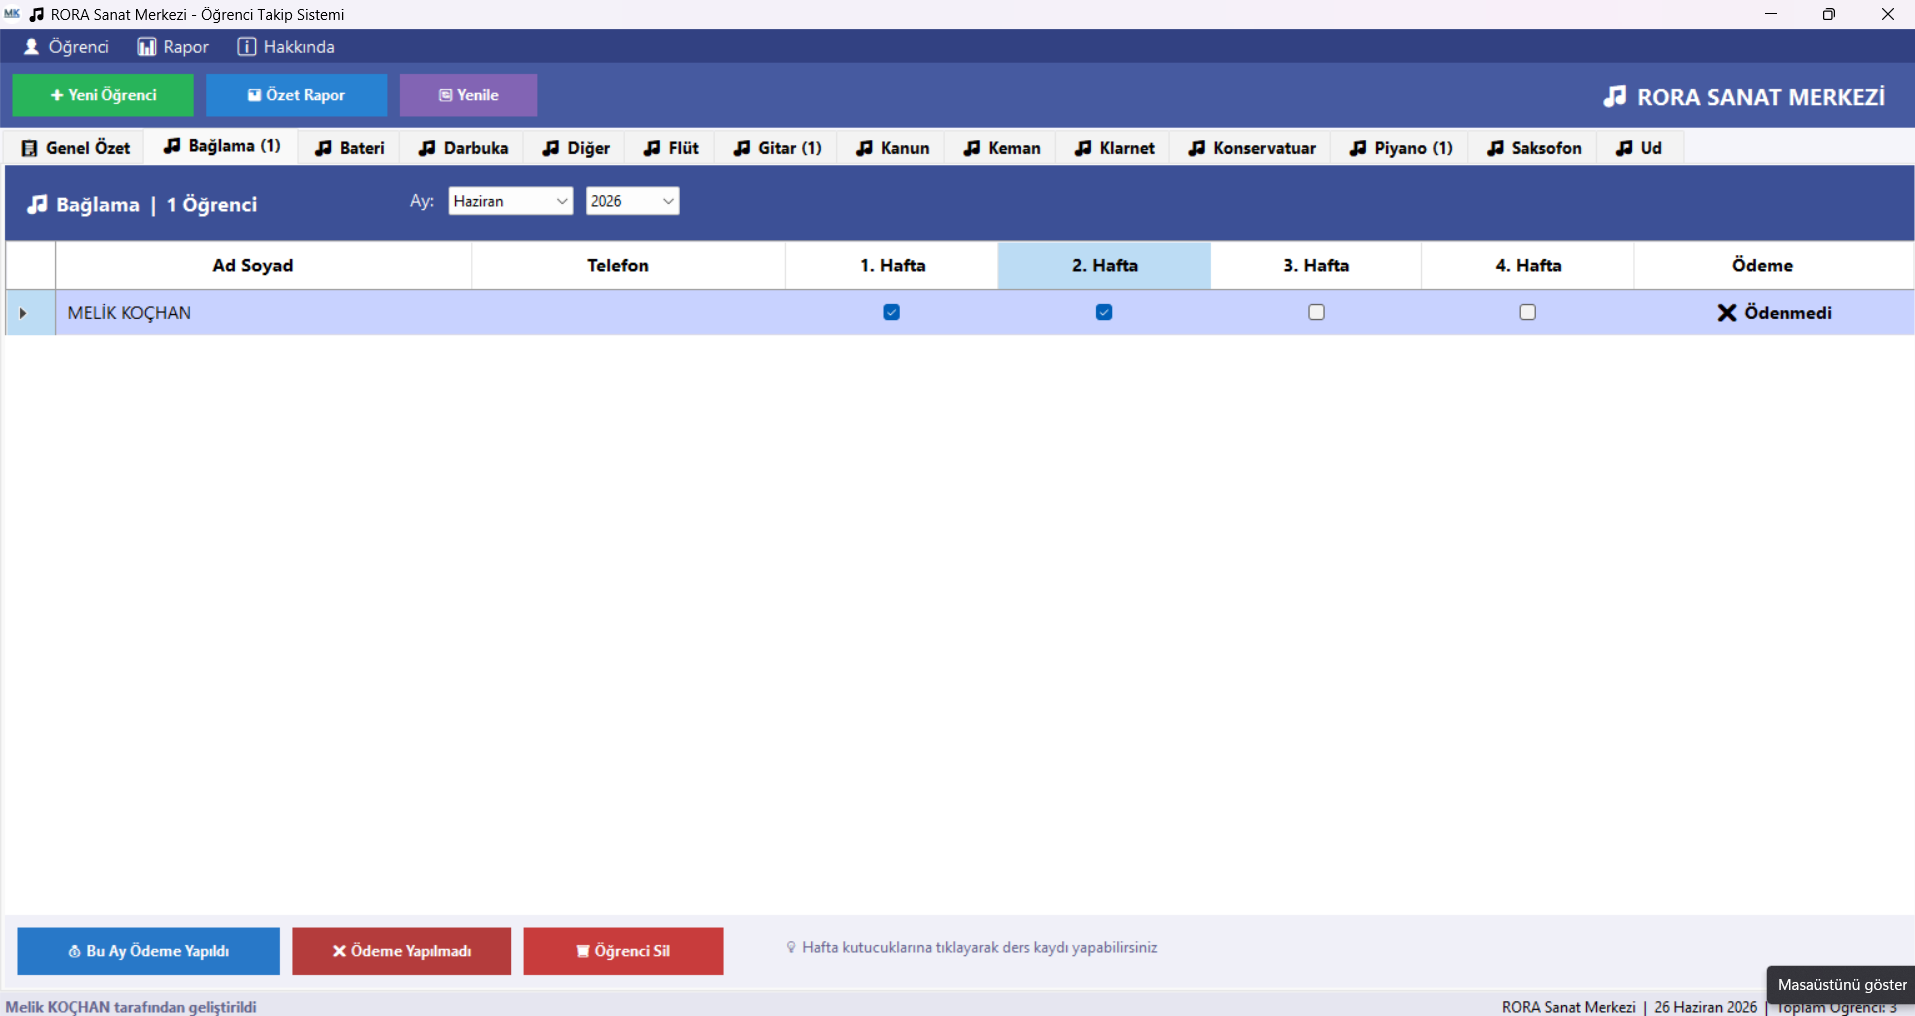
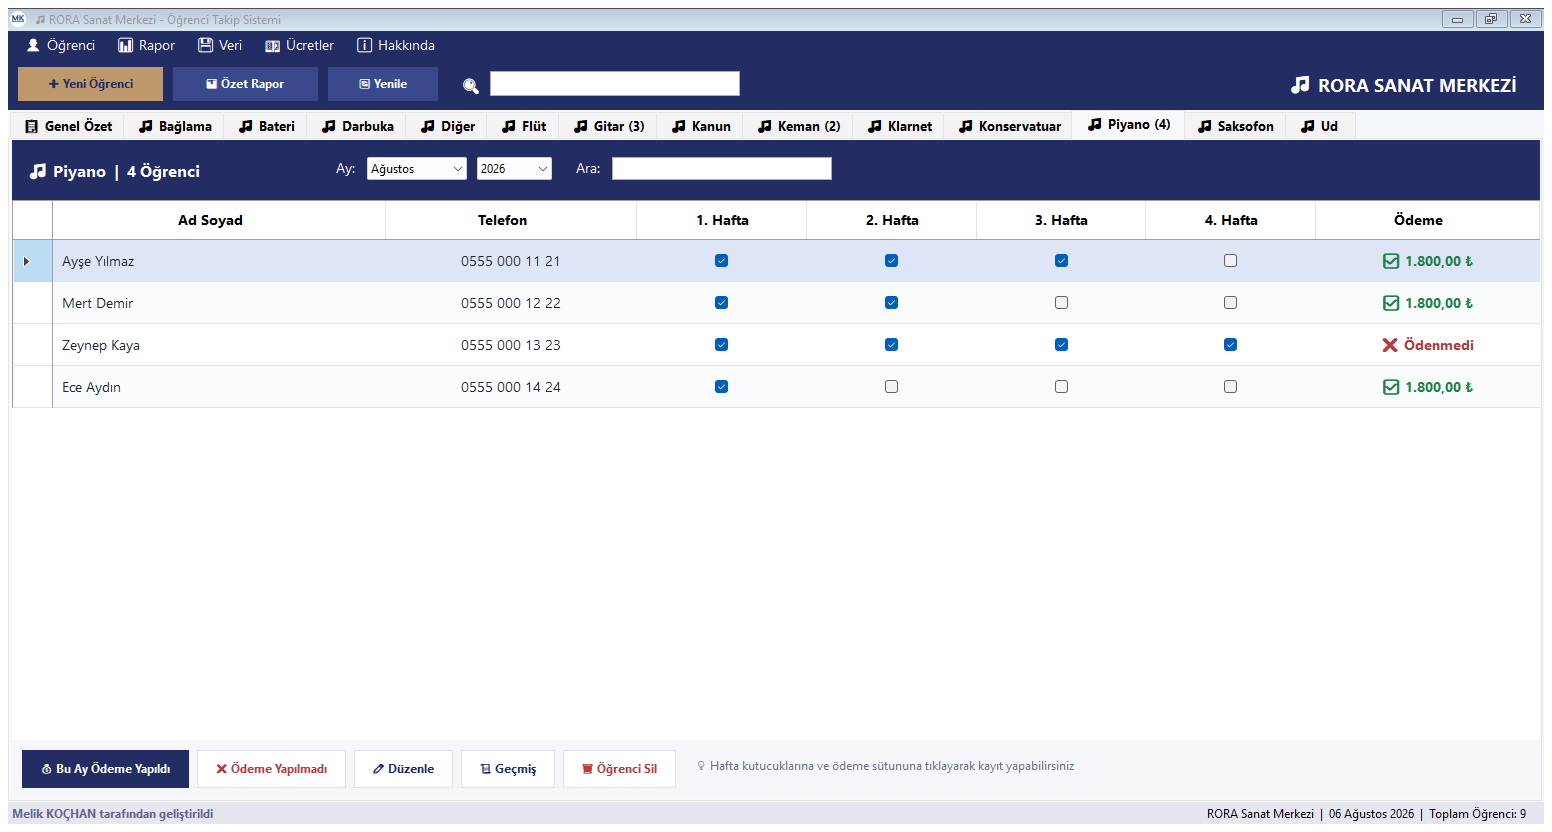
README ekran görüntülerini yenile ve eksik özellikleri yaz
Üç ekran görüntüsü de arayüzün yenilenmesinden (#32) önce çekilmişti ve
uygulamanın bugünkü görünümünü yansıtmıyordu. Yeniden üretildiler.

README ayrıca iki özellikten hiç söz etmiyordu: ödeme durumunun tabloda
hücreye tıklanarak değiştirilebilmesi (#30) ve yüksek DPI desteği (#31).
Bunlar merge edildiğinde README güncellenmemişti, çünkü o sırada dönem
raporu dalı ayrı ilerliyordu. Eklendi; arayüzle ilgili maddeler için ayrı
bir başlık açıldı.

Görüntüler tamamen uydurma veriyle üretildi. Ekran görüntüsünde gerçek bir
öğrencinin adının veya telefonunun görünmesi doğru olmazdı; README'ye de
bunun örnek veri olduğunu söyleyen bir not kondu.

Görüntüleri üretebilmek için veri açılışı MainForm'un yapıcısından
Program.Main'e taşındı. Yapıcı, Yukle ve OtomatikYedekAl'ın yanı sıra
AylikOdemeKayitlariniOlustur'u da çağırıyordu; sonuncusu kayıt dosyasına
yazıyor. Yani formu yalnızca göstermek isteyen her çağıran, kullanıcının
gerçek veri dosyasını okumaya ve değiştirmeye de ortak oluyordu. Bir
yapıcının işi pencereyi kurmaktır; bu yan etkiler oraya ait değil.

Sıra ve davranış aynı kaldı: açılış ekranı kapandıktan hemen sonra, ana
pencere kurulmadan önce çağrılıyorlar.

Closes #36

diff --git a/Program.cs b/Program.cs
@@ -88,6 +88,15 @@ namespace RORAMuzikMerkezi
                     splash.ShowDialog();
                 }
 
+                // Veri açılışı, ana pencere kurulmadan önce burada yapılıyor.
+                // Eskiden MainForm'un yapıcısındaydı; bir yapıcının diske
+                // yazması ve kullanıcının veri dosyasını değiştirmesi, formu
+                // yalnızca göstermek isteyen her çağıranı da bu yan etkilere
+                // ortak ediyordu. Sıra ve davranış aynı, yalnızca yeri değişti.
+                VeriYoneticisi.Yukle();
+                VeriYoneticisi.OtomatikYedekAl();
+                VeriYoneticisi.AylikOdemeKayitlariniOlustur();
+
                 Application.Run(new MainForm());
 
                 GC.KeepAlive(kilit);

diff --git a/MainForm.cs b/MainForm.cs
@@ -27,11 +27,11 @@ namespace RORAMuzikMerkezi
         private Button btnYenile;
         private readonly List<Ogrenci> aramaSonuclari = new List<Ogrenci>();
 
+        // Veri yükleme, yedekleme ve aylık ödeme kayıtlarının oluşturulması
+        // burada değil, Program.Main'de yapılıyor. Yapıcı yalnızca pencereyi
+        // kuruyor; bellekteki veriyi olduğu gibi gösteriyor.
         public MainForm()
         {
-            VeriYoneticisi.Yukle();
-            VeriYoneticisi.OtomatikYedekAl();
-            VeriYoneticisi.AylikOdemeKayitlariniOlustur();
             InitializeComponent();
             SekmeleriBuild();
             OdemeHatirlatici();

diff --git a/README.md b/README.md
@@ -20,9 +20,15 @@ RORA Sanat Merkezi için geliştirilen bu uygulama; öğrenci kayıt, haftalık 
 
 - 4 haftalık ders takibi (işaret kutusu ile)
 - Aylık ödeme yönetimi (ödeme alma ve geri alma)
+- Ödeme durumu tabloda hücreye tıklanarak değiştirilebilir
 - Ödeme tutarı takibi ve gelir raporlaması
 - Çalgı bazlı ders ücreti tanımları; ödeme alınırken tutar varsayılan olarak gelir
 - Ayın 15'inden sonra çalışan ödeme hatırlatıcısı
+
+**Arayüz**
+
+- Yüksek DPI desteği: %125 ve %150 ölçekli ekranlarda yazılar bulanıklaşmaz
+- Düğme genişlikleri metinden hesaplanır; farklı ölçeklerde yazılar kesilmez
 
 **Raporlama**
 
@@ -45,13 +51,15 @@ RORA Sanat Merkezi için geliştirilen bu uygulama; öğrenci kayıt, haftalık 
 
 ![Genel Özet ekranı](docs/img/genel-ozet.png)
 
-**Çalgı sekmesi** — ay/yıl filtresi, haftalık ders kutucukları ve ödeme durumu
+**Çalgı sekmesi** — ay/yıl filtresi, haftalık ders kutucukları ve tıklanarak değiştirilebilen ödeme sütunu
 
 ![Çalgı sekmesi](docs/img/calgi-sekmesi.png)
 
-**Ödeme alma** — seçili öğrenci için seçili aya ödeme işleme
+**Ödeme alma** — seçili öğrenci için seçili aya ödeme işleme; tutar, çalgının tanımlı ücretinden geliyor
 
 ![Ödeme alma](docs/img/odeme-alma.png)
+
+> Ekran görüntülerindeki öğrenci adları ve telefon numaraları örnektir; gerçek kayıtlara ait değildir.
 
 ## 🛠 Kullanılan Teknolojiler
 
@@ -122,9 +130,15 @@ This application was developed for RORA Art Center to digitally manage student r
 
 - Weekly lesson tracking with checkboxes (4 weeks per month)
 - Monthly payment management (record and revert payments)
+- Payment state can be toggled by clicking the cell in the table
 - Payment amount tracking and income reporting
 - Per-instrument lesson fee definitions, prefilled when recording a payment
 - Payment reminder shown after the 15th of the month
+
+**Interface**
+
+- High-DPI support: text stays sharp on displays scaled to 125% or 150%
+- Button widths are measured from their text, so labels are not clipped at any scale
 
 **Reporting**
 

diff --git a/docs/Requirements.md b/docs/Requirements.md
@@ -20,7 +20,7 @@
 
 ### Payment management
 
-- Record and revert a monthly payment
+- Record and revert a monthly payment, either from the buttons or by clicking the payment cell
 - Store the amount paid, not only whether payment happened
 - Define a default lesson fee per instrument, prefilled when recording a payment
 - Remind the user of unpaid students after the 15th of the month
@@ -49,6 +49,7 @@
 - Local data storage
 - Low hardware requirements
 - Windows compatibility
+- Readable on scaled displays: high-DPI aware, and control sizes derived from the text they hold rather than fixed pixels
 - No server, database or internet connection
 - No external libraries; only standard .NET Framework assemblies
 

diff --git a/docs/SprintPlan.md b/docs/SprintPlan.md
@@ -61,10 +61,11 @@ Documentation, repository hygiene, CI, and interface work.
 - Yearly and date-range reports, month by month and by instrument (#33)
 - Per-student lesson and payment history screen (#34)
 - Fixed: bottom panel buttons were sized in fixed pixels and clipped their labels; widths are now measured from the text at runtime (#38)
+- README screenshots retaken against the refreshed interface, and the missing README lines for #30 and #31 added (#36)
 
 ### Open
 
-- README screenshots to be retaken now that the interface has been refreshed, along with the README lines for #30 and #31 (#36)
+_Nothing open in this sprint._
 
 ### Deferred
 

diff --git a/docs/Architecture.md b/docs/Architecture.md
@@ -16,7 +16,7 @@ Single-process desktop application. No server, no database, no network calls.
 
 | File | Role |
 |---|---|
-| `Program.cs` | Entry point; enforces the single-instance rule via a named mutex |
+| `Program.cs` | Entry point; declares DPI awareness, enforces the single-instance rule via a named mutex, and loads the data before the main window is built |
 | `SplashForm.cs` | Startup screen |
 | `MainForm.cs` | Main window: menu bar, global search, summary panel, instrument tabs |
 | `CalgiSekmesi.cs` | One instrument tab: student list, weekly lesson checkboxes, payment state |
